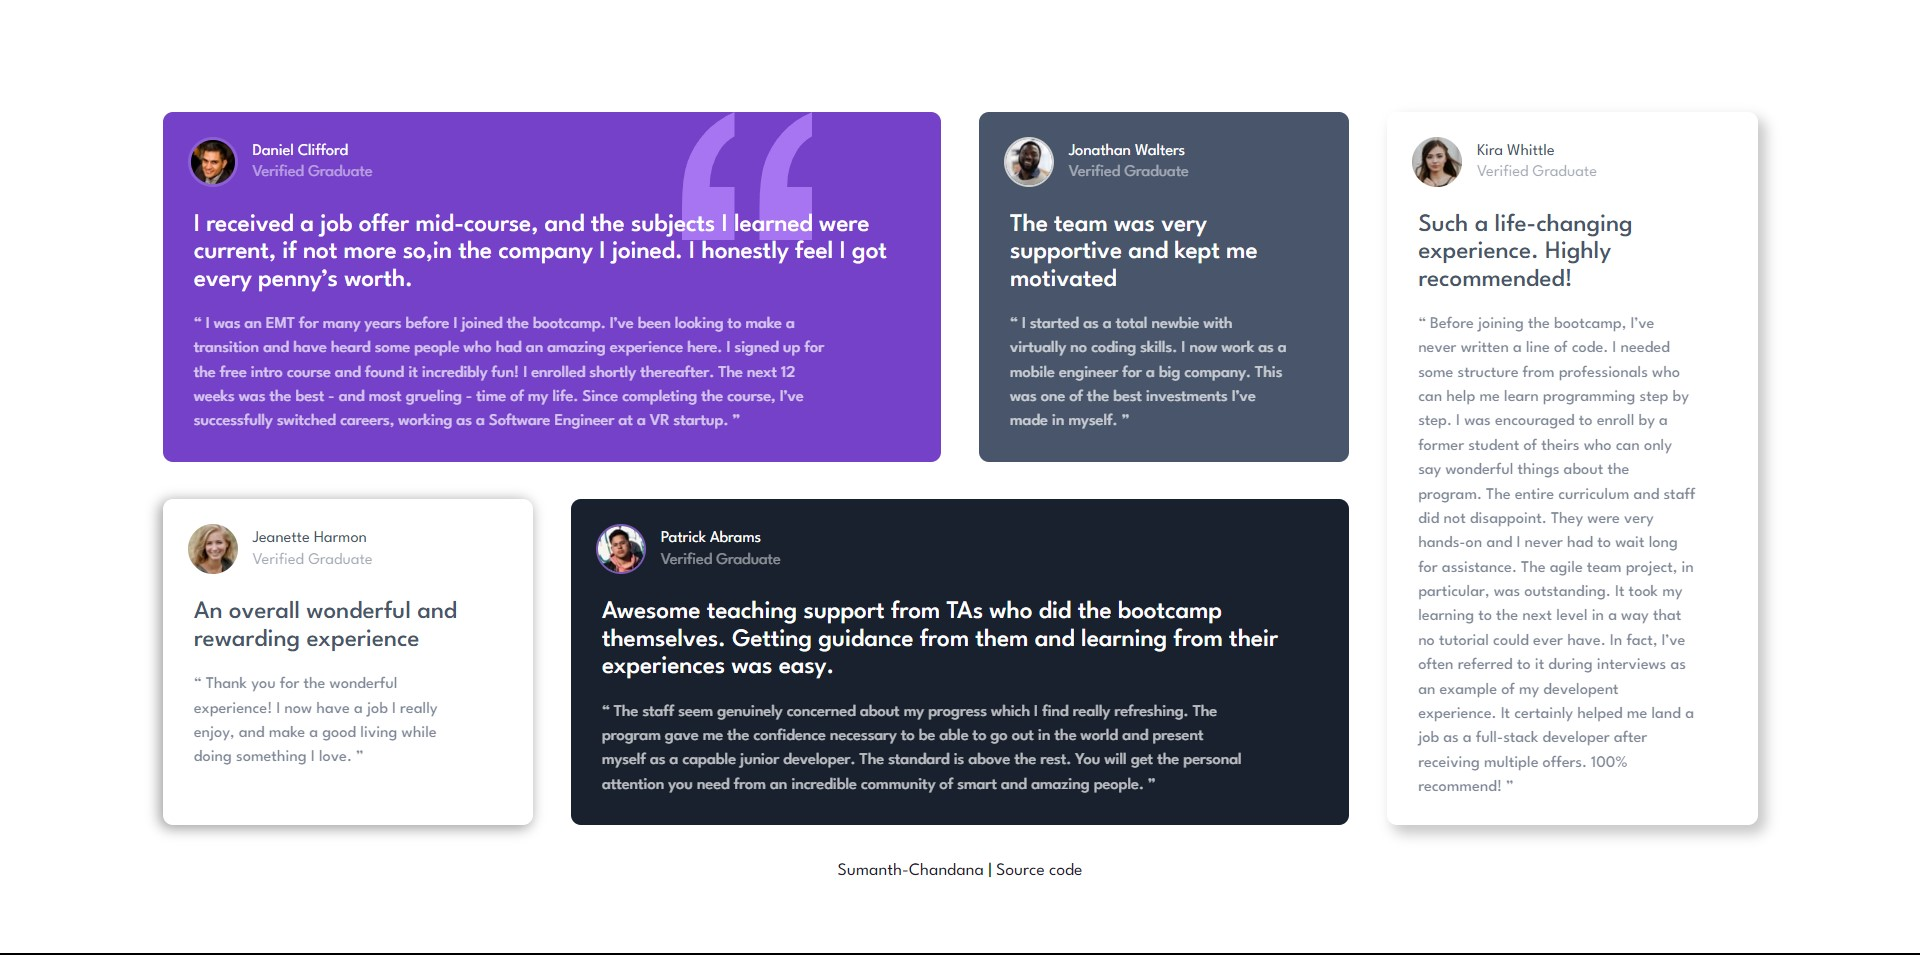
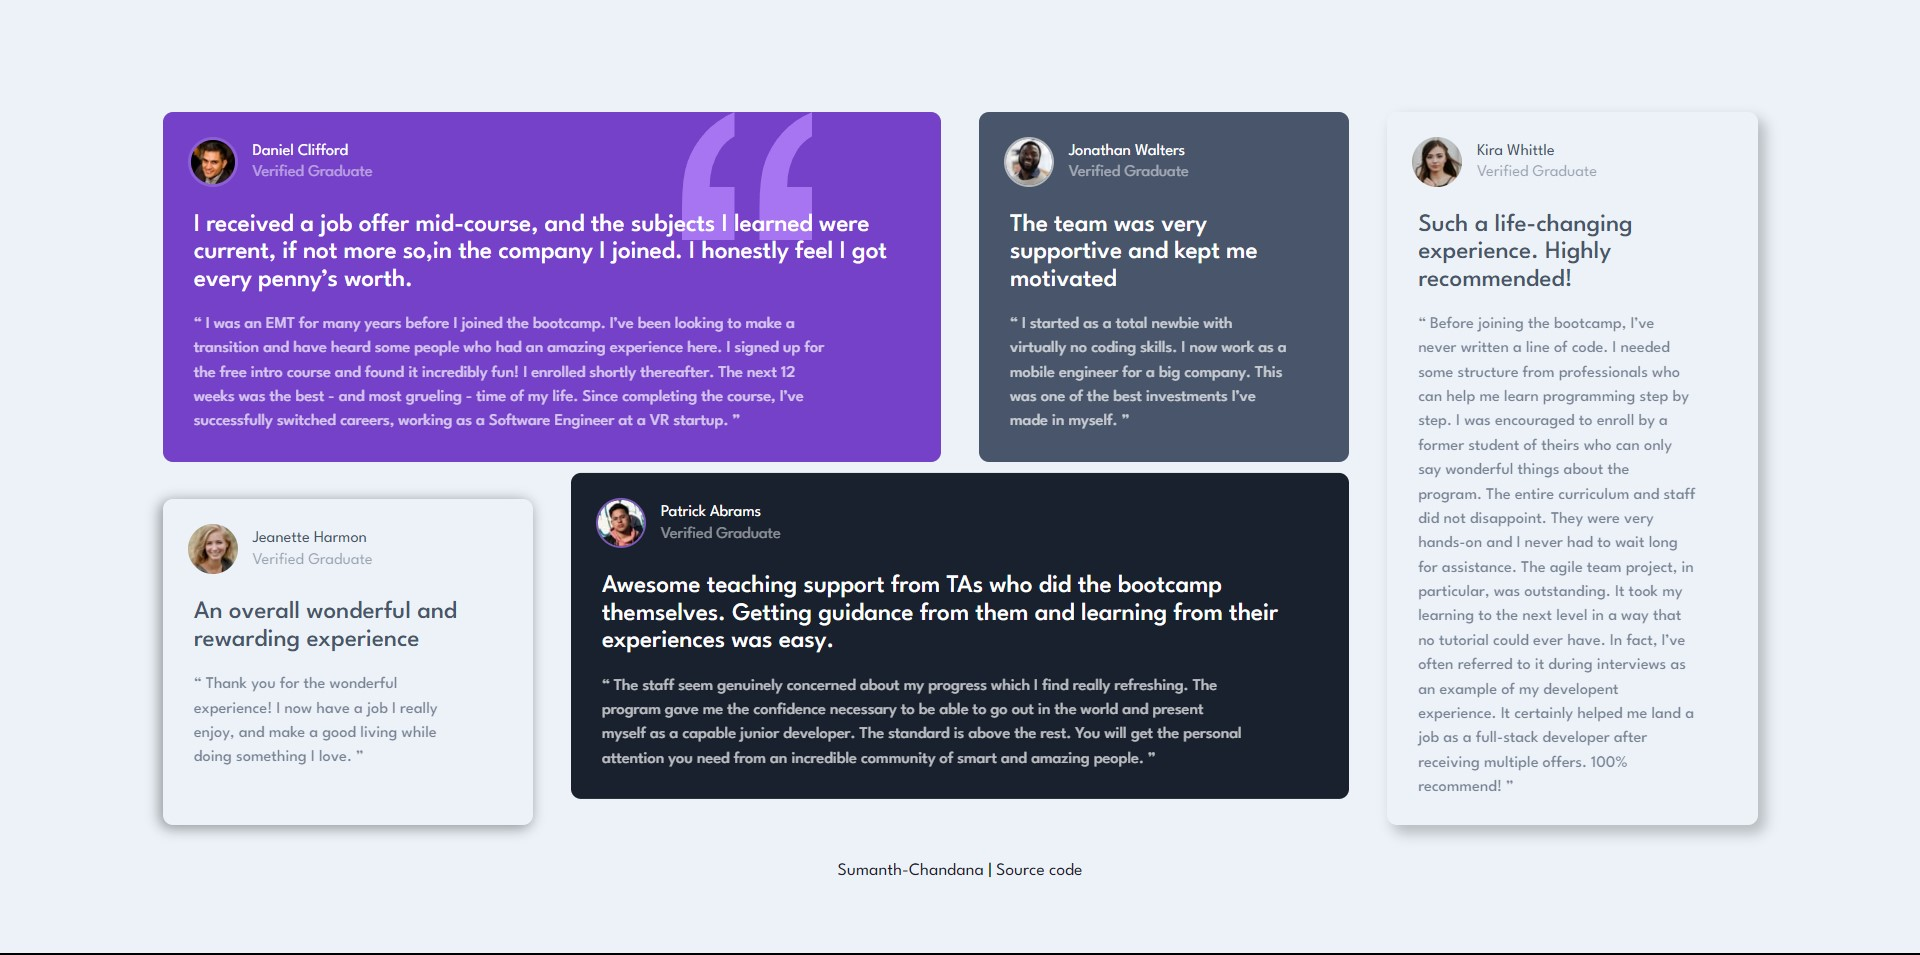
minor tweaks

Changed region(s): [[0.2812, 0.4859, 0.7188, 0.8806]]

diff --git a/style.css b/style.css
@@ -29,7 +29,6 @@ body{
     flex-direction: column;
     justify-content: center;
     height: 100%;
-    font-size: 13px;
     font-family: 'League Spartan', sans-serif;
     background-color: var(--Light-grayish-blue);
 }
@@ -92,6 +91,7 @@ h1{
 }
 
 .review>.quotes{
+    font-size: 13px;
     margin: 15px 0 0px;
     opacity: 0.7;
     line-height: 1.5;

diff --git a/README.md b/README.md
@@ -19,7 +19,7 @@ Users should be able to:
 
 ### Links
 
-- Solution URL: [click here](https://github.com/sumanth-chandana/testimonal-grid-section.git)
+- Solution URL: [click here](https://github.com/sumanth-chandana/testimonial-grid-section.git)
 - Live Site URL: [click here](https://testimonial-grid-sectionn.netlify.app/)
 
 ## My process
